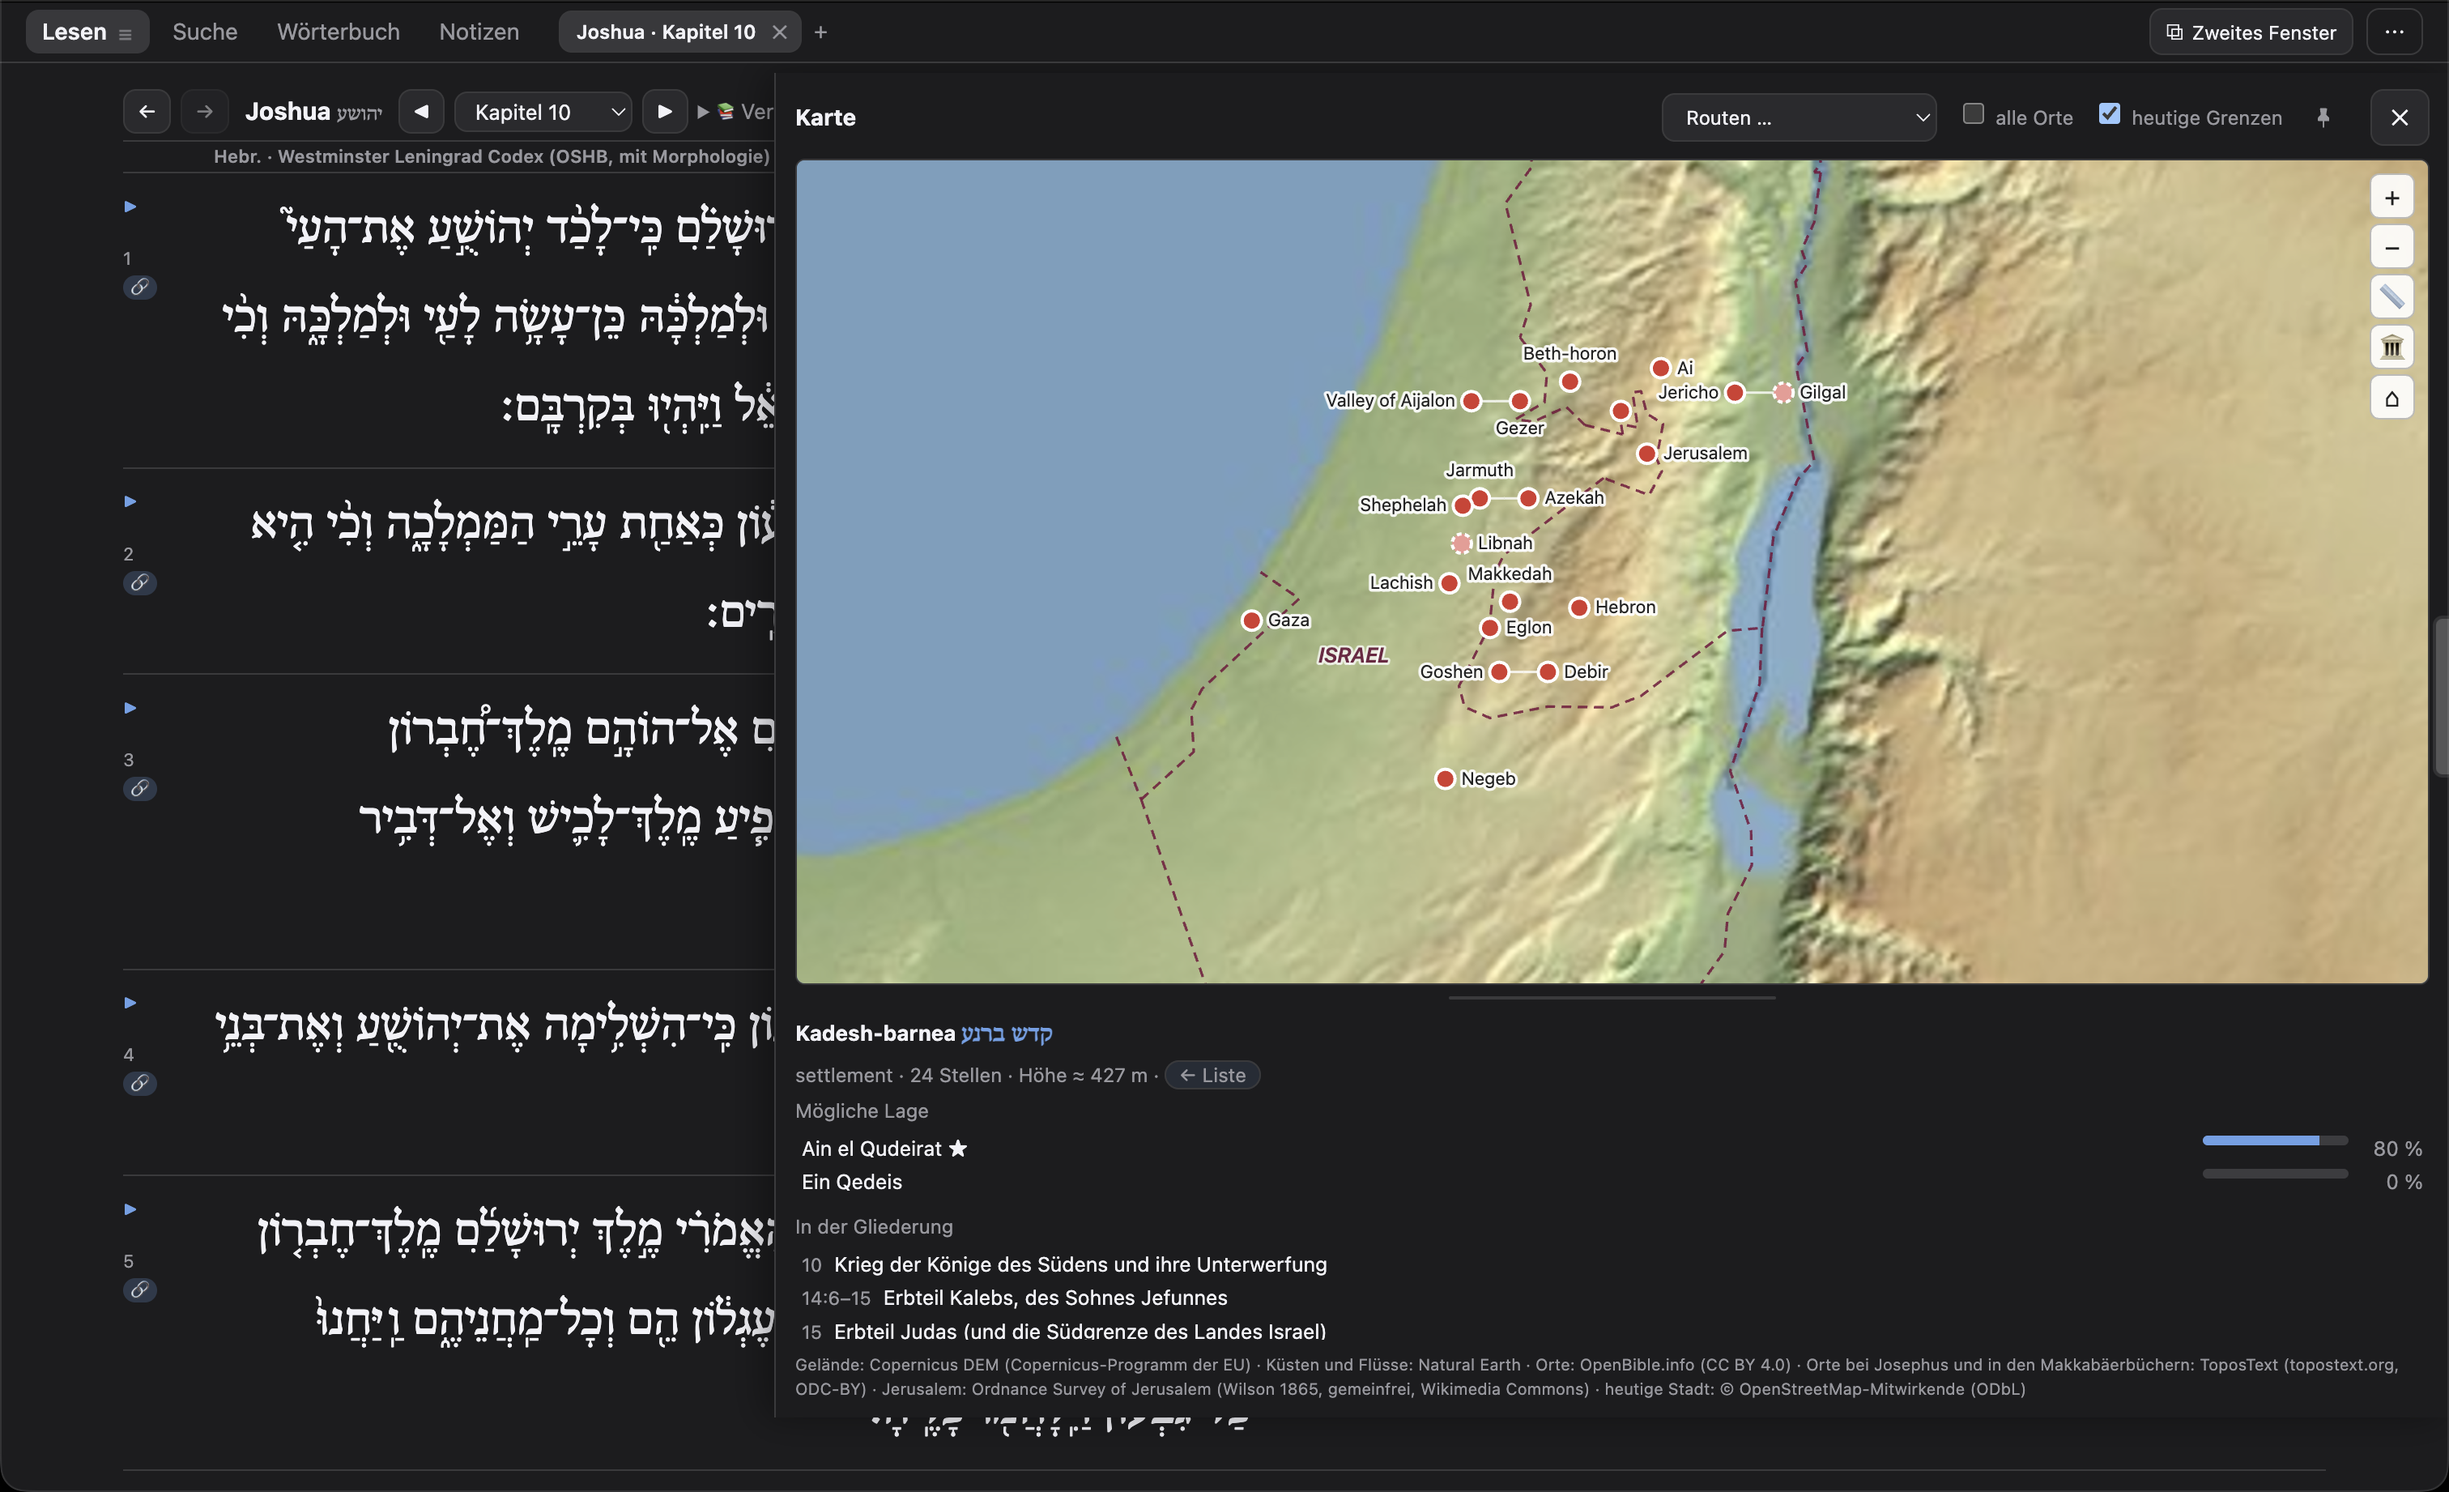
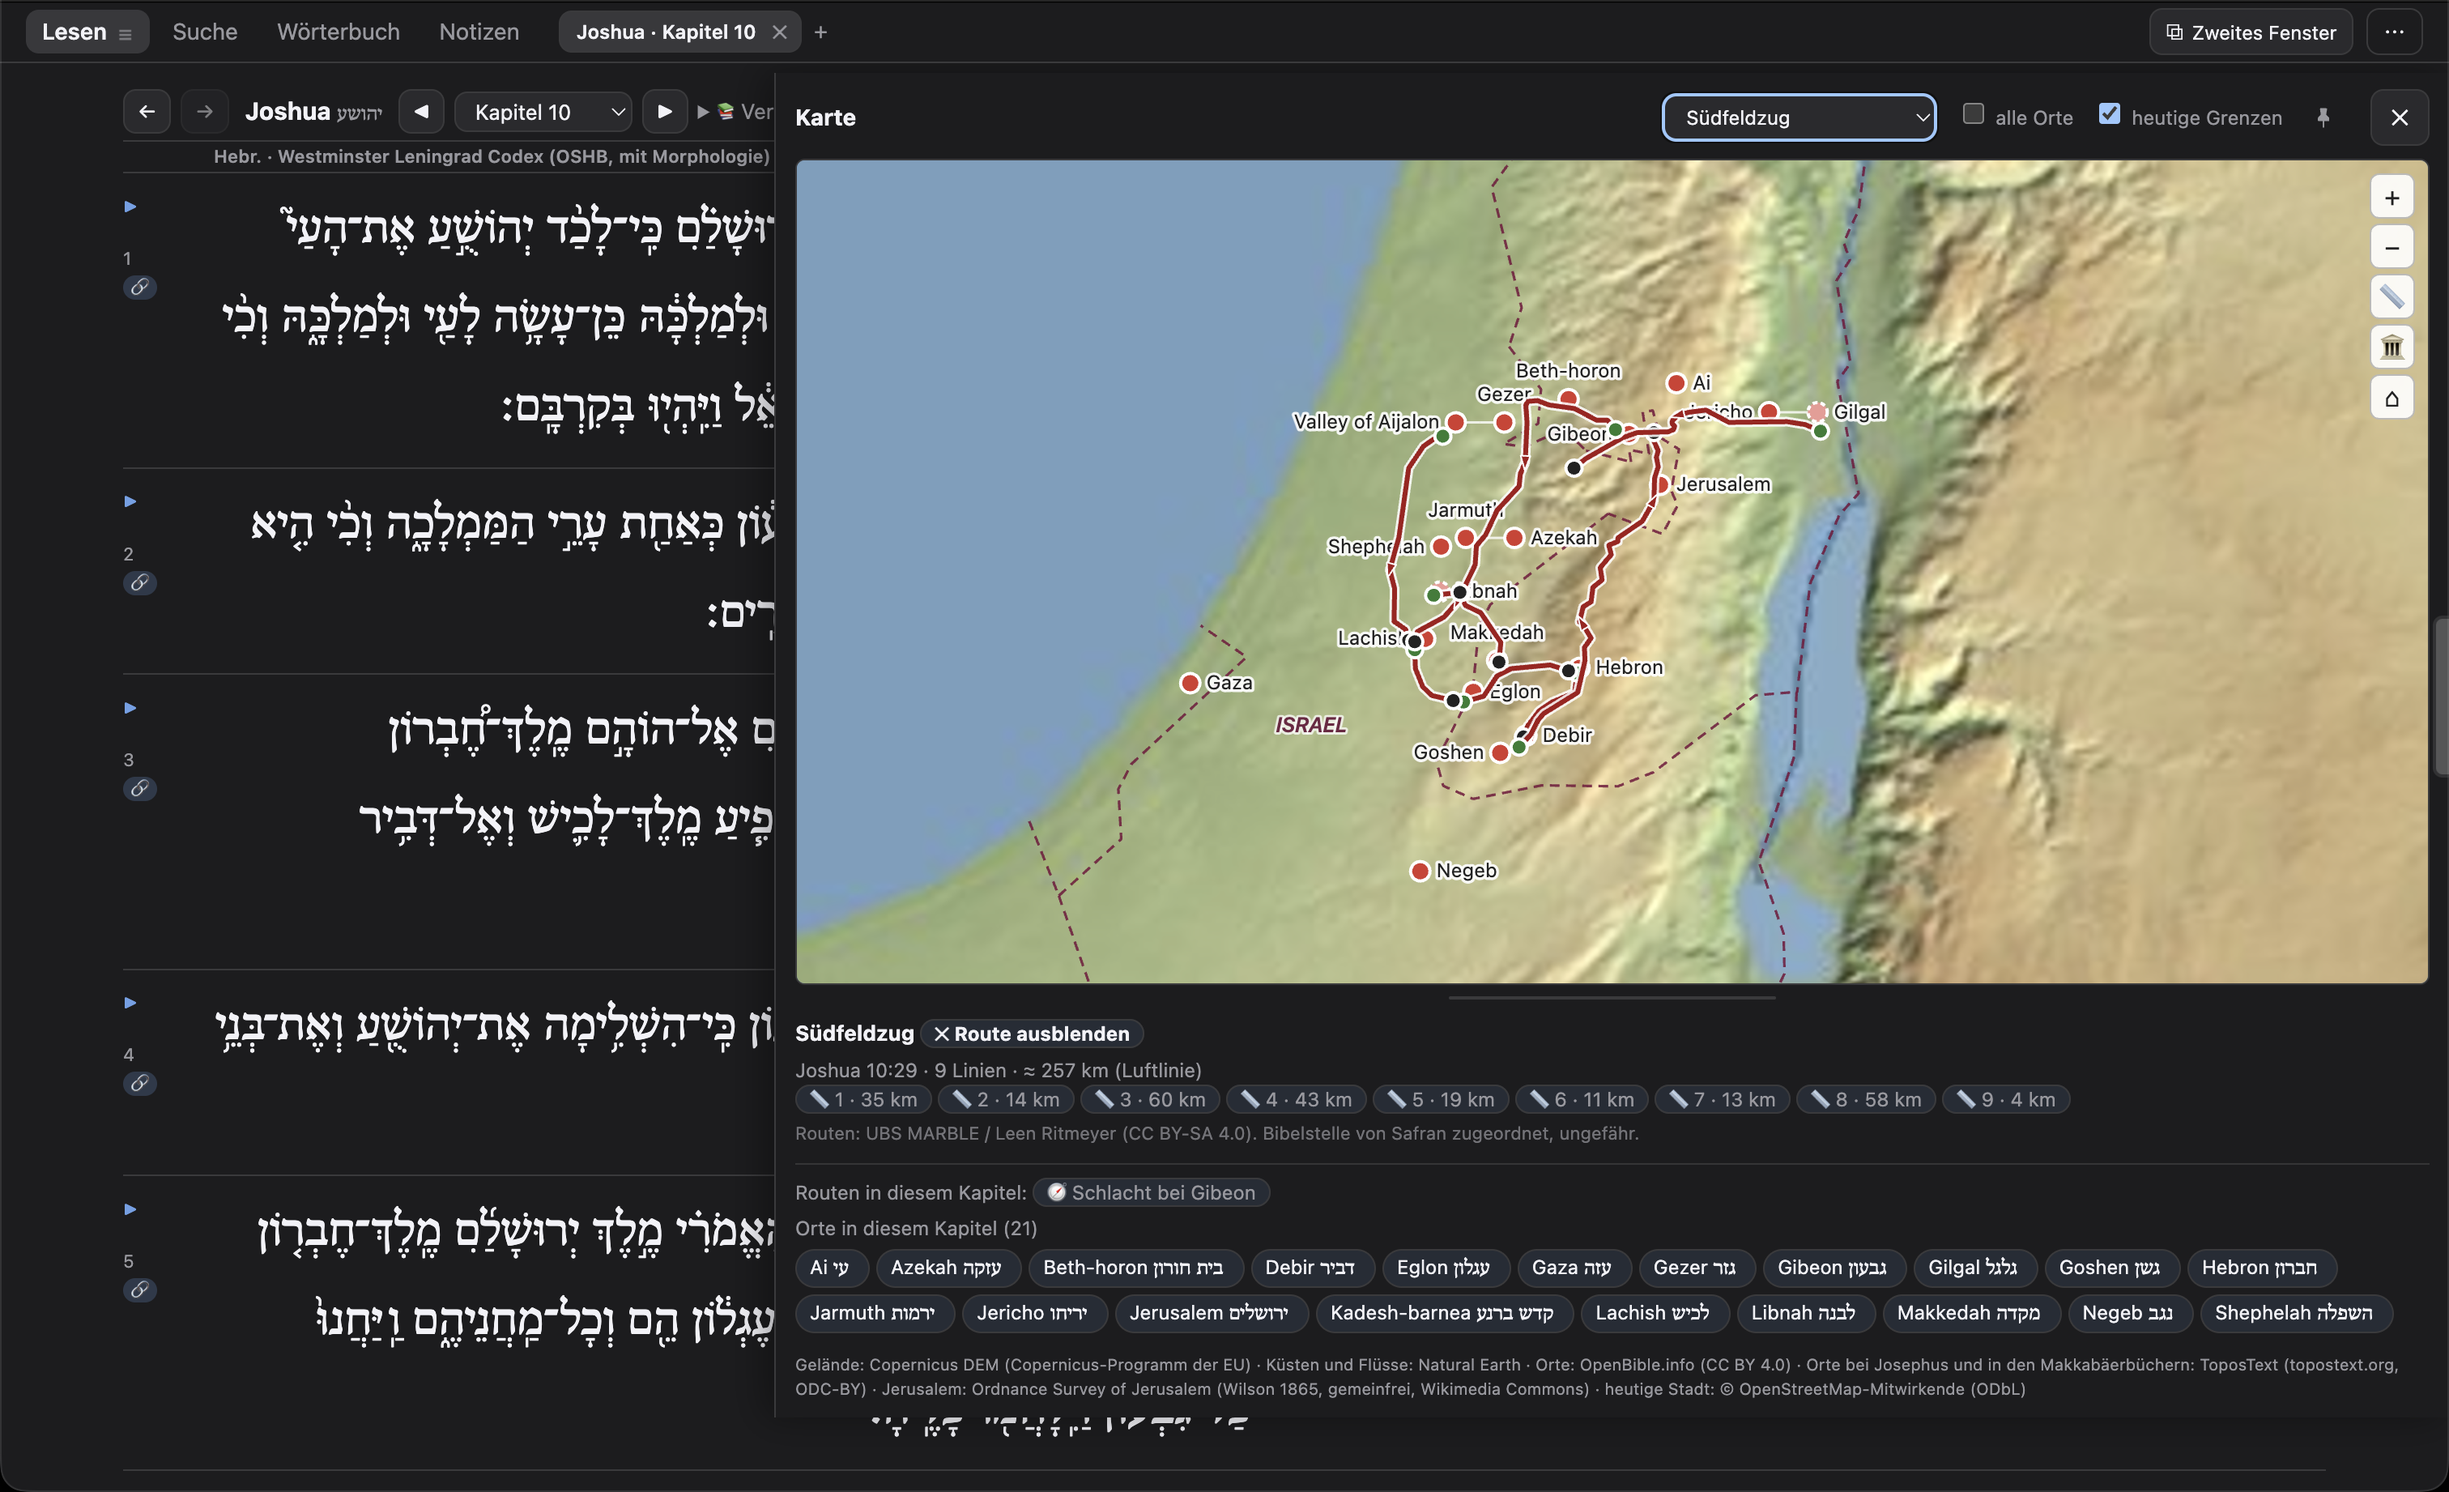
README: Karte mit Route (Südfeldzug)
Claude-Session: https://claude.ai/code/session_016yt9dj24jcW7iDC6UJsdbt

diff --git a/README.de.md b/README.de.md
@@ -126,8 +126,8 @@ Ebenfalls enthalten: der Westminster Leningrad Codex mit Morphologie (OSHB), der
 </p>
 
 <p align="center">
-  <a href="screenshots/map-israel.png"><img src="screenshots/map-israel.png" alt="Kartenfenster zu Josua 10 mit den Orten des Kapitels auf einer Reliefkarte, Grenzen und Ortsnotiz" width="900"></a><br>
-  <sub>Bibelkarte: die Orte des Kapitels auf einer Reliefkarte, dazu eine Notiz zum gewählten Ort.</sub>
+  <a href="screenshots/map-israel.png"><img src="screenshots/map-israel.png" alt="Kartenfenster zu Josua 10 mit der Route des Südfeldzugs auf einer Reliefkarte, Entfernungen je Abschnitt und die Orte des Kapitels" width="900"></a><br>
+  <sub>Bibelkarte: der Südfeldzug aus Josua 10 als Route mit Entfernungen, dazu alle Orte des Kapitels.</sub>
 </p>
 
 <!-- TODO Galerie: die folgenden Aufnahmen in screenshots/ ablegen und diesen Kommentar durch eine zweispaltige <table> mit Vorschaubildern ersetzen.

diff --git a/README.md b/README.md
@@ -126,8 +126,8 @@ Also bundled: the Westminster Leningrad Codex with morphology (OSHB), the Aleppo
 </p>
 
 <p align="center">
-  <a href="screenshots/map-israel.png"><img src="screenshots/map-israel.png" alt="Map panel for Joshua 10 with the places of the chapter on a relief map, borders and a place note" width="900"></a><br>
-  <sub>Bible map: the places of the chapter on a relief map, with a note on the selected place.</sub>
+  <a href="screenshots/map-israel.png"><img src="screenshots/map-israel.png" alt="Map panel for Joshua 10 with the southern campaign route on a relief map, distances per leg and the places of the chapter" width="900"></a><br>
+  <sub>Bible map: the southern campaign of Joshua 10 as a route with distances, and all places of the chapter.</sub>
 </p>
 
 <!-- TODO gallery: capture the images below into screenshots/ and replace this comment with a 2-column <table> of thumbnails.
